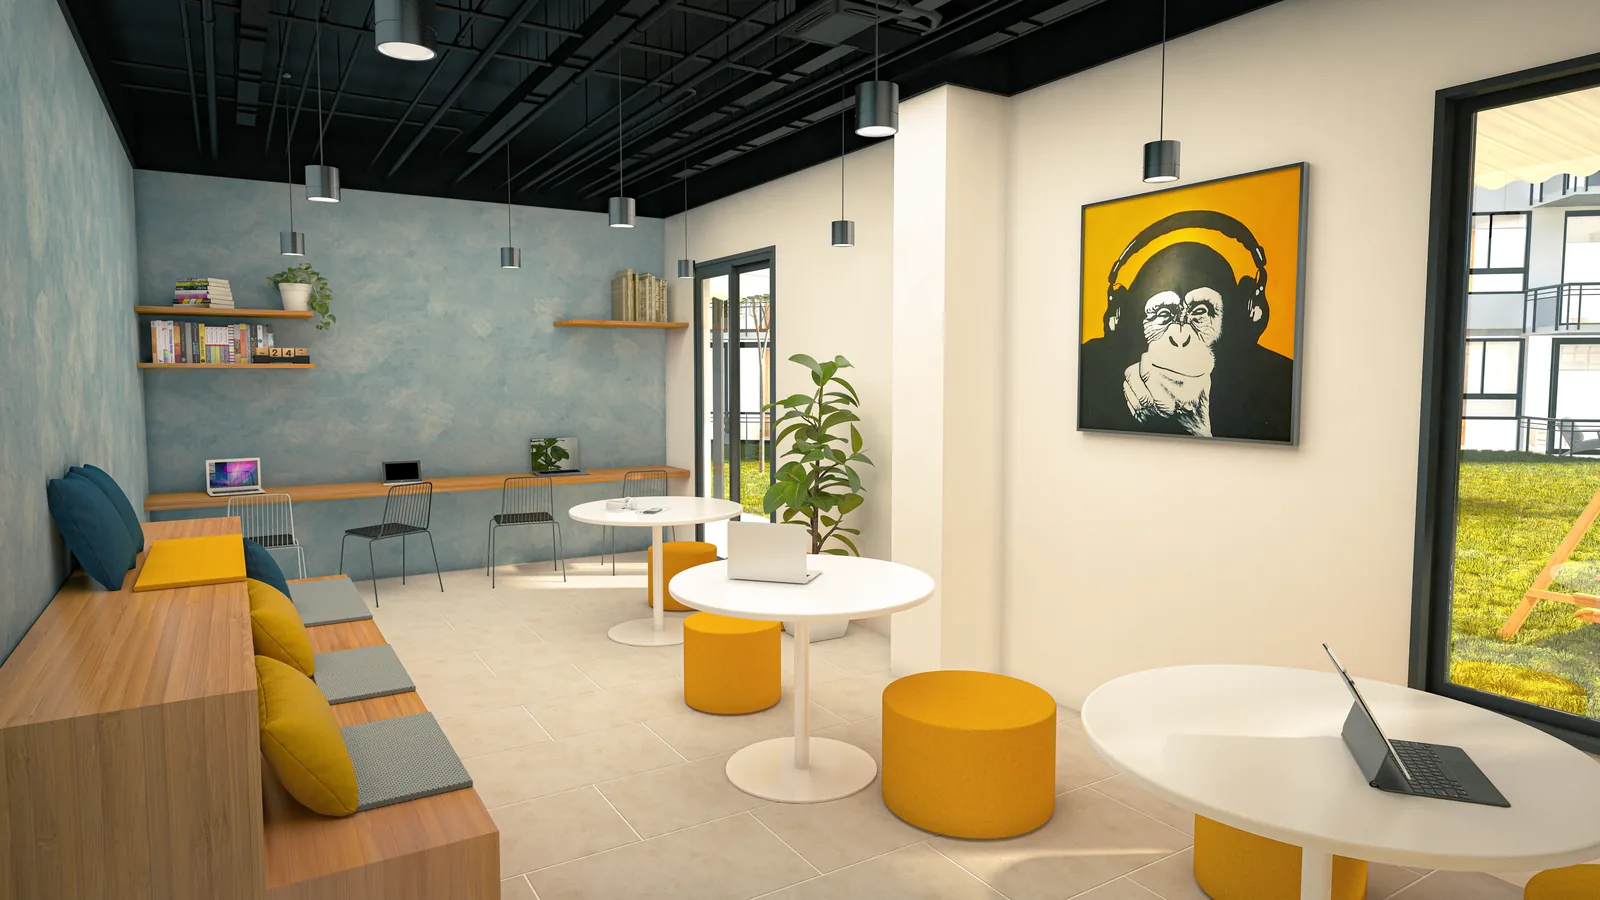
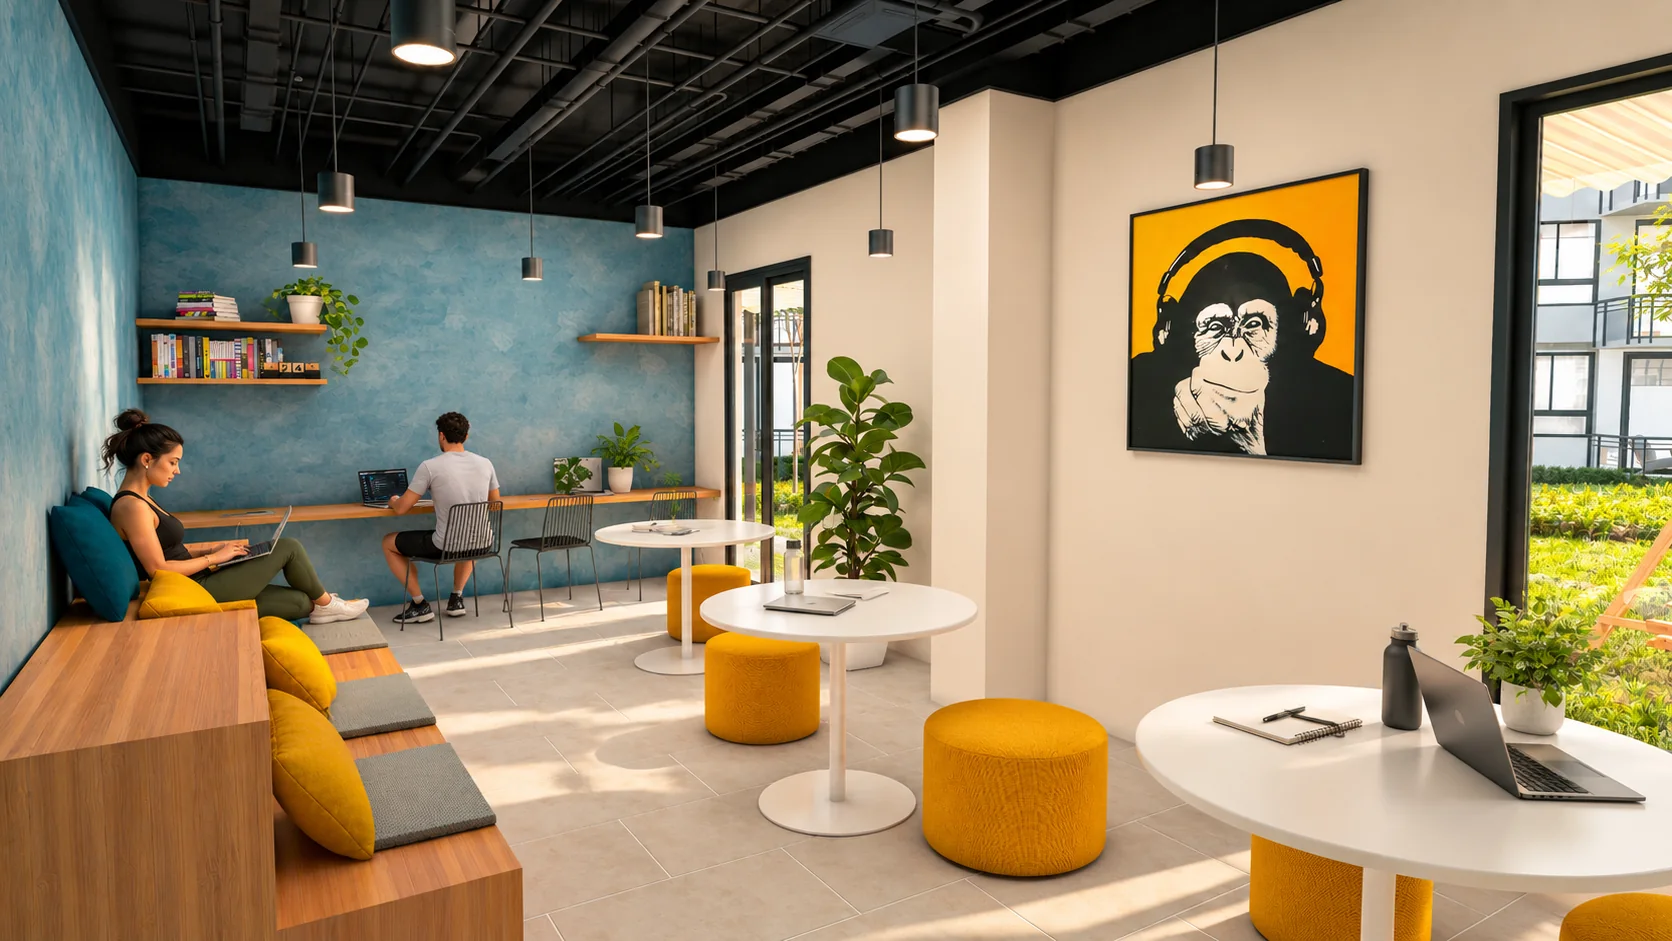
Social: renders nuevos de parque, salón, coworking y BBQ; Lobby Central al final
Claude-Session: https://claude.ai/code/session_01DbQSkjawgEFXXi1NfzF7dw

diff --git a/index.html b/index.html
@@ -100,7 +100,7 @@
   <link rel="preconnect" href="https://fonts.googleapis.com" />
   <link rel="preconnect" href="https://fonts.gstatic.com" crossorigin />
   <link href="https://fonts.googleapis.com/css2?family=Poppins:ital,wght@0,300;0,400;0,500;0,600;0,700;0,800;1,300&display=swap" rel="stylesheet" />
-  <link rel="stylesheet" href="assets/css/styles.css?v=20261004d" />
+  <link rel="stylesheet" href="assets/css/styles.css?v=20261004e" />
 </head>
 <body>
 
@@ -441,8 +441,8 @@
               <li><button type="button" class="zdet-item" data-zimg="salon"><img src="assets/img/icono-auditorio.png" alt="" width="132" height="132" loading="lazy" /><span>Auditorio</span></button></li>
               <li><button type="button" class="zdet-item" data-zimg="coworking"><img src="assets/img/icono-coworking.png" alt="" width="132" height="132" loading="lazy" /><span>Coworking</span></button></li>
               <li><span class="zdet-item"><img src="assets/img/icono-conectividad.png" alt="" width="132" height="132" loading="lazy" /><span>Zona de Conectividad</span></span></li>
-              <li><span class="zdet-item"><img src="assets/img/icono-lobby.png" alt="" width="132" height="132" loading="lazy" /><span>Lobby Central</span></span></li>
               <li><span class="zdet-item"><img src="assets/img/icono-isla-lectura.png" alt="" width="132" height="132" loading="lazy" /><span>Isla de Lectura</span></span></li>
+              <li><span class="zdet-item"><img src="assets/img/icono-lobby.png" alt="" width="132" height="132" loading="lazy" /><span>Lobby Central</span></span></li>
             </ul>
 
             <h4 class="zdet-group">Cocina Grill</h4>
@@ -454,16 +454,16 @@
           </div>
           <div class="zviewer" data-zviewer>
             <div class="zviewer-stage">
-              <figure class="zviewer-fig is-shown" data-zfig="parque"><img src="assets/img/social-1.webp" alt="Parque y zonas verdes de Cielo Apartamentos" width="1600" height="900" loading="lazy" /><figcaption>Parque infantil y cancha múltiple</figcaption></figure>
-              <figure class="zviewer-fig" data-zfig="salon"><img src="assets/img/social-3.webp" alt="Salón social y teatrino de Cielo Apartamentos" width="1600" height="900" loading="lazy" /><figcaption>Salón social y teatrino</figcaption></figure>
-              <figure class="zviewer-fig" data-zfig="coworking"><img src="assets/img/social-4.webp" alt="Sala de coworking de Cielo Apartamentos" width="1600" height="900" loading="lazy" /><figcaption>Coworking</figcaption></figure>
-              <figure class="zviewer-fig" data-zfig="bbq"><img src="assets/img/social-2.webp" alt="Zona BBQ de Cielo Apartamentos, con pérgolas y parrillas" width="1600" height="900" loading="lazy" /><figcaption>Zona BBQ</figcaption></figure>
+              <figure class="zviewer-fig is-shown" data-zfig="parque"><img src="assets/img/social-1.webp" alt="Parque infantil de Cielo con rodadero, muro de escalar y domo de juegos, junto a la cancha múltiple, entre palmas y al pie de la torre" width="1672" height="941" loading="lazy" /><figcaption>Parque infantil y cancha múltiple</figcaption></figure>
+              <figure class="zviewer-fig" data-zfig="salon"><img src="assets/img/social-3.webp" alt="Salón multifuncional de Cielo con salas de estar y, al fondo, el auditorio con pantalla y sillas" width="1672" height="941" loading="lazy" /><figcaption>Salón multifuncional y auditorio</figcaption></figure>
+              <figure class="zviewer-fig" data-zfig="coworking"><img src="assets/img/social-4.webp" alt="Coworking de Cielo: barra de trabajo, mesas redondas con puffs amarillos y repisas con libros" width="1672" height="941" loading="lazy" /><figcaption>Coworking</figcaption></figure>
+              <figure class="zviewer-fig" data-zfig="bbq"><img src="assets/img/social-2.webp" alt="Zona BBQ de Cielo: barra con parrilla y nevera bajo pérgola de madera, con mesas y sillas al aire libre" width="1672" height="941" loading="lazy" /><figcaption>Zona BBQ</figcaption></figure>
             </div>
             <div class="zviewer-thumbs">
-              <button type="button" class="zviewer-thumb is-on" data-zimg="parque" aria-label="Ver el parque infantil"><img src="assets/img/social-1.webp" alt="" width="1600" height="900" loading="lazy" /></button>
-              <button type="button" class="zviewer-thumb" data-zimg="salon" aria-label="Ver el salón social"><img src="assets/img/social-3.webp" alt="" width="1600" height="900" loading="lazy" /></button>
-              <button type="button" class="zviewer-thumb" data-zimg="coworking" aria-label="Ver el coworking"><img src="assets/img/social-4.webp" alt="" width="1600" height="900" loading="lazy" /></button>
-              <button type="button" class="zviewer-thumb" data-zimg="bbq" aria-label="Ver la zona BBQ"><img src="assets/img/social-2.webp" alt="" width="1600" height="900" loading="lazy" /></button>
+              <button type="button" class="zviewer-thumb is-on" data-zimg="parque" aria-label="Ver el parque infantil"><img src="assets/img/social-1.webp" alt="" width="1672" height="941" loading="lazy" /></button>
+              <button type="button" class="zviewer-thumb" data-zimg="salon" aria-label="Ver el salón social"><img src="assets/img/social-3.webp" alt="" width="1672" height="941" loading="lazy" /></button>
+              <button type="button" class="zviewer-thumb" data-zimg="coworking" aria-label="Ver el coworking"><img src="assets/img/social-4.webp" alt="" width="1672" height="941" loading="lazy" /></button>
+              <button type="button" class="zviewer-thumb" data-zimg="bbq" aria-label="Ver la zona BBQ"><img src="assets/img/social-2.webp" alt="" width="1672" height="941" loading="lazy" /></button>
             </div>
           </div>
         </article>
@@ -983,7 +983,7 @@
     <p class="footer-copy">© 2026 Cielo Apartamentos · Construcciones Urbanas. Todos los derechos reservados.</p>
   </footer>
 
-  <script src="assets/js/main.js?v=20261004d" defer></script>
+  <script src="assets/js/main.js?v=20261004e" defer></script>
   <!-- autoajusta la altura del iframe del calendario (#agenda) al contenido -->
   <script src="https://api.leadconnectorhq.com/js/form_embed.js" type="text/javascript"></script>
 </body>
